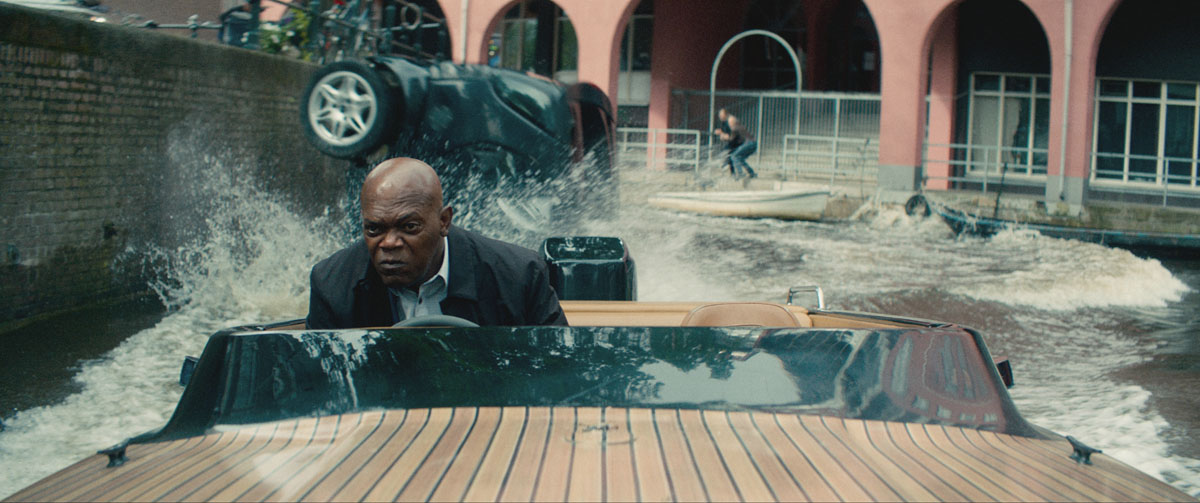
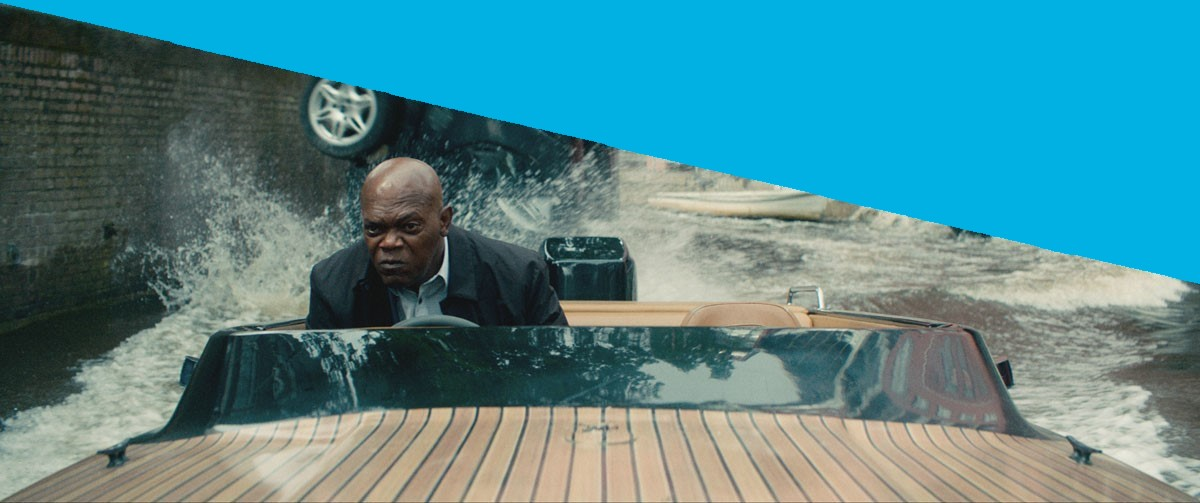
customize mod02-13

Changed region(s): [[0.0, 0.0, 1.0, 0.5666]]

diff --git a/index.html b/index.html
@@ -7,10 +7,10 @@
 	<link rel="stylesheet" href="css/style.css">
 	<link href="https://fonts.googleapis.com/css?family=Encode+Sans+Condensed|Lato" rel="stylesheet">
 	<script src="https://ajax.googleapis.com/ajax/libs/jquery/2.1.1/jquery.min.js"></script>
+	<script src="https://use.fontawesome.com/0b6fab0879.js"></script>
 	<title>Wireframe - Activity 2</title>
 </head>
 <body>
-	<script type="text/javascript" src="js.js"></script>
 
 	<nav>
 		<div class="avatar"><img class="avatarImg" src="img/avatar.png"></div>
@@ -23,6 +23,15 @@
 		</ul>
 	</nav>
 
+	<main>
+
+	<div id="toggleIcon">
+		<i class="fa fa-bars" aria-hidden="true"></i>
+	</div>
+	<div id="toggleIcon1" hidden>
+		<i class="fa fa-bars" aria-hidden="true"></i>
+	</div>
+
 	<div class="home">
 		<div class="website">
 			<h1>The Hitman's Bodyguard</h1>
@@ -32,34 +41,68 @@
 	</div>
 
 	<div class="about" id="about">
-		<h3>About</h3>
+		<h3>About the Movie</h3>
 		<div class="aboutPar">
 			<p>The Hitman's Bodyguard is a 2017 American action comedy film directed by Patrick Hughes and written by Tom O'Connor, whose script was on the 2011 Black List survey. The film stars Ryan Reynolds, Samuel L. Jackson, Gary Oldman and Salma Hayek, and follows a bodyguard who is hired to protect a hitman who has to testify at the International Criminal Court.</p>
 
-			<p>The Hitman's Bodyguard was released in the United States on August 18, 2017, and has grossed $176 million worldwide. The film received mixed reviews, with critics praising Reynolds and Jackson's chemistry but criticizing the clichéd plot and execution.</p>
+			<p>The Hitman's Bodyguard was released in the United States on August 18, 2017, and has grossed $176 million worldwide.</p>
 		</div>
 	</div>
 
 	<div class="reviews" id="reviews">
+
+		<div class="ownReview">
+			<h3>Awwwesome!</h3>
+			<p>
+				<i class="fa fa-star" aria-hidden="true"></i>
+				<i class="fa fa-star" aria-hidden="true"></i>
+				<i class="fa fa-star" aria-hidden="true"></i>
+				<i class="fa fa-star" aria-hidden="true"></i>
+				<i class="fa fa-star" aria-hidden="true"></i>
+			</p>
+		</div>
+		
 		<div class="userReviews">
 			<h5>Juan Doe</h5>
-			<img src="img/star.jpg">
+			<p>
+				<i class="fa fa-star" aria-hidden="true"></i>
+				<i class="fa fa-star" aria-hidden="true"></i>
+				<i class="fa fa-star" aria-hidden="true"></i>
+				<i class="fa fa-star" aria-hidden="true"></i>
+				<i class="fa fa-star" aria-hidden="true"></i>
+			</p>
 				<p>Wow, I was so impressed with this movie. I will admit that the first 20 minutes were pretty generic for me and I found myself thinking, "This is pretty much what I expected, ... </p>
 
 			<h5>Hayme Doe</h5>
-			<img src="img/star.jpg">
+			<p>
+				<i class="fa fa-star" aria-hidden="true"></i>
+				<i class="fa fa-star" aria-hidden="true"></i>
+				<i class="fa fa-star" aria-hidden="true"></i>
+				<i class="fa fa-star" aria-hidden="true"></i>
+				<i class="fa fa-star" aria-hidden="true"></i>
+			</p>
 				<p>The Hit-man's Bodyguard is a movie I never knew I wanted to see until I saw the first trailer. I was instantly hooked, and couldn't wait to see it on opening day. Well, I ...</p>
 		</div>
 
-		<h3>User Reviews</h3>
-		
 		<div class="userReviews2">
 			<h5>Juan Doe</h5>
-			<img src="img/star.jpg">
+			<p>
+				<i class="fa fa-star" aria-hidden="true"></i>
+				<i class="fa fa-star" aria-hidden="true"></i>
+				<i class="fa fa-star" aria-hidden="true"></i>
+				<i class="fa fa-star" aria-hidden="true"></i>
+				<i class="fa fa-star" aria-hidden="true"></i>
+			</p>
 				<p>Wow, I was so impressed with this movie. I will admit that the first 20 minutes were pretty generic for me and I found myself thinking, "This is pretty much what I expected, ... </p>
 
 			<h5>Hayme Doe</h5>
-			<img src="img/star.jpg">
+			<p>
+				<i class="fa fa-star" aria-hidden="true"></i>
+				<i class="fa fa-star" aria-hidden="true"></i>
+				<i class="fa fa-star" aria-hidden="true"></i>
+				<i class="fa fa-star" aria-hidden="true"></i>
+				<i class="fa fa-star" aria-hidden="true"></i>
+			</p>
 				<p>The Hit-man's Bodyguard is a movie I never knew I wanted to see until I saw the first trailer. I was instantly hooked, and couldn't wait to see it on opening day. Well, I ...</p>
 		</div>
 
@@ -67,9 +110,15 @@
 
 	<div class="trailer" id="trailer">
 		<h3>Trailer</h3>
-		<iframe width="700" height="315" src="https://www.youtube.com/embed/F4Afusxc2SM" frameborder="0" gesture="media" allow="encrypted-media" allowfullscreen ></iframe>
+		<iframe src="https://player.vimeo.com/video/224689608" width="640" height="330" frameborder="0" webkitallowfullscreen mozallowfullscreen allowfullscreen></iframe>
 	</div>
 
 	<div class="gallery" id="gallery"><h3>Gallery</h3></div>
+
+
+
+
+	</main>
+	<script type="text/javascript" src="js/script.js"></script>
 </body>
 </html>

diff --git a/css/style.css b/css/style.css
@@ -5,22 +5,32 @@
 }
 
 body {
-	background-color: skyblue;
+	background-color: rgba(3, 179, 229, 1);
 	font-family: 'Encode Sans Condensed', sans-serif;
+
+}
+
+i.fa-star{
+	color: yellow;
 }
 
 body p {
 	font-family: 'Lato', sans-serif;
 }
 
+main {
+	margin-left: 20%;
+	transition: all ease-in-out 300ms;
+}
 nav {
-	background-color: white;
+	background-color: black;
 	position: fixed;
 	left: 0;
 	height: 100%;
 	width: 20%;
 	text-align: center;
 	padding: 0 2.5%;
+	transition: all ease-in-out 300ms;
 }
 
 h1 {
@@ -31,7 +41,6 @@ h1 {
 }
 
 
-
 nav ul li {
 	list-style: none;
 	padding-bottom: 2px;
@@ -40,10 +49,11 @@ nav ul li {
 nav ul li a {
 	text-decoration: none;
 	display: block;
-	background-color: rgba(3, 179, 229, 1);
+	background: rgba(3, 179, 229, 1);
 	color: white;
 	padding: 10px 0;
 	font-family: 'Encode Sans Condensed', sans-serif;
+	text-shadow: 0 0 25px rgba(0, 0, 0, 1);
 
 }
 
@@ -69,10 +79,10 @@ div.aboutPar {
 }
 
 div.website {
-	margin: 0 auto 0 5%;
+	margin: 0 auto 0 6%;
 	height: 250px;
 	width: 50%;
-	padding: 4% 4%;
+	padding: 2% 4%;
 }
 
 div.aboutPar{
@@ -81,11 +91,13 @@ div.aboutPar{
 	color: black;
 	margin: 5% auto auto;
 	text-align: left;
+	text-shadow: 0 0 25px rgba(0, 0, 0, 1);
 }
 
 div.aboutPar p{     
 	margin-bottom: 10px;     
 	text-indent: 3em; 
+	color: white;
 }
 
 div.website h1 {
@@ -102,9 +114,6 @@ div.reviews,
 div.trailer,
 div.gallery {
 	height: 400px;
-	margin-left:20%;
-	
-
 }
 
 div.about,
@@ -124,7 +133,7 @@ div.home {
 
 
 div.about {
-	background-color: #afb064;
+	background: linear-gradient(rgba(3, 179, 229, 1), rgba(249,68,23,1));
 	
 }
 
@@ -132,17 +141,18 @@ div.reviews {
 	background-color: #55aaaa;
 	background-image: url("../img/reviews.jpg");
 	background-size: cover;
+	padding-bottom: 10px;
 }
 
-div.reviews h3 {
-	/*padding-bottom: 15%;*/
-	display: inline-block;
-	position: relative;
-	bottom: 30%;
+div.ownReview {
+	/*display: inline-block;*/
+	margin: 0 auto;
+	/*height: 340px;*/
+
 }
 
 div.trailer {
-	background-color: #448899;
+	background: linear-gradient(black,rgba(3, 179, 229, 1));
 }
 
 div.gallery {
@@ -162,28 +172,41 @@ div.userReviews2 {
 	 text-align: left;
 	 font-size: 0.6em;
 	 color: black;
-	 background: linear-gradient(90deg,
-	 rgba(255, 255, 255, 0.5) 0%,
-	 rgba(255, 255, 255, 0.8) 25%,
-	 rgba(255, 255, 255, 0.9) 75%,
-	 rgba(255, 255, 255, 0.6) 100%);
+	/* background: linear-gradient(90deg,
+	 rgba(3, 179, 229, 0.5) 0%,
+	 rgba(3, 179, 229, 0.8) 25%,
+	 rgba(3, 179, 229, 0.9) 75%,
+	 rgba(3, 179, 229, 0.6) 100%);
 	 box-shadow: 0 0 25px rgba(0, 0, 0, 0.5);
-	 inset 0 0 1px rgba(255, 255, 255, 0.6);
+	 inset 0 0 1px rgba(255, 255, 255, 0.6);*/
 	 padding: 10px;
-	 margin: 30px 9%;
+	 margin: 0 1%;
 	 /*margin: 20px;*/
-	 display: inline-block;
+	 /*display: inline-block;*/
+	 height: 340px;
 	 
 }
+div.userReviews{
+	float:left;
+	text-align: left;
+}
+div.userReviews2 {
+	float:right;
+	text-align: right;
+}
+
 
 
 div.userReviews h5,
 div.userReviews2 h5{
-	margin-top: 5px
+	margin-top: 5px;
+	color: white;
 }
 
 div.reviews p {
 	font-size: 15px;
+	color: white;
+	font-weight: lighter;
 
 }
 
@@ -192,3 +215,27 @@ body h3 {
 	text-shadow: 0 0 25px rgba(0, 0, 0, 0.9);
 }
 
+
+
+#toggleIcon1,
+#toggleIcon {
+	background-color: rgba(3, 179, 229, 0.5);
+	border:1px solid rgba(3, 179, 229, 1);
+	position: fixed;
+	font-size: 2em;
+	padding: 10px;
+	color: white;
+	transition: all ease-in-out 600ms;
+}
+
+
+#toggleIcon {
+	top:0;
+	left:20%;
+	z-index: 1;
+
+}
+
+#toggleIcon1{
+	left:0;
+}

diff --git a/js/script.js b/js/script.js
@@ -1,0 +1,41 @@
+
+var toggleIcon = document.querySelector('#toggleIcon');
+
+toggleIcon.addEventListener('click', function (){
+
+	console.log('toggleIcon is working')
+
+	var nav = document.querySelector('nav');
+	nav.style.left = '-20%'
+
+	var main = document.querySelector('main');
+	main.style.marginLeft = '0'
+
+	var toggleIcon = document.querySelector('#toggleIcon');
+	toggleIcon.setAttribute('hidden', 'hidden');
+
+	var toggleIcon1 = document.querySelector('#toggleIcon1');
+	toggleIcon1.removeAttribute('hidden');
+
+});
+
+
+var toggleIcon1 = document.querySelector('#toggleIcon1');
+
+toggleIcon1.addEventListener('click', function (){
+
+	console.log('toggleIcon is working')
+
+	var nav = document.querySelector('nav');
+	nav.style.left = '0'
+
+	var main = document.querySelector('main');
+	main.style.marginLeft = '20%'
+
+	var toggleIcon = document.querySelector('#toggleIcon');
+	toggleIcon.removeAttribute('hidden');
+
+	var toggleIcon1 = document.querySelector('#toggleIcon1');
+	toggleIcon1.setAttribute('hidden','hidden');
+
+});
